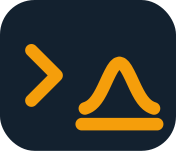
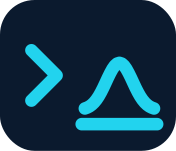
fix: restyle colours

Changed region(s): [[0.4261, 0.3709, 0.9375, 0.8742], [0.142, 0.2914, 0.3693, 0.7152]]

diff --git a/index.html b/index.html
@@ -5,27 +5,32 @@
 <meta name="viewport" content="width=device-width, initial-scale=1">
 <title>Gauss in the Shell</title>
 <meta name="description" content="Solution architecture, applied AI and digital compliance.">
-<meta name="theme-color" content="#13212F">
+<meta name="theme-color" content="#0B1A2E">
 <link rel="icon" href="favicon.svg" type="image/svg+xml">
 <link rel="icon" href="favicon-32.png" sizes="32x32" type="image/png">
 <style>
   @font-face { font-family: "Space Mono"; font-style: normal; font-weight: 400; font-display: swap; src: url("fonts/space-mono-latin-400-normal.woff2") format("woff2"); }
-  :root { --ink: #13212F; --amber: #F59E0B; --text: #E6EAEE; --muted: #AAB4BF; }
+  @font-face { font-family: "Space Grotesk"; font-style: normal; font-weight: 400; font-display: swap; src: url("fonts/space-grotesk-latin-400-normal.woff2") format("woff2"); }
+  @font-face { font-family: "Space Grotesk"; font-style: normal; font-weight: 600; font-display: swap; src: url("fonts/space-grotesk-latin-600-normal.woff2") format("woff2"); }
+  :root { --ink: #0B1A2E; --accent: #22D3EE; --text: #E6EDF5; --muted: #A3B3C6; }
   * { box-sizing: border-box; }
   body { margin: 0; min-height: 100vh; display: flex; flex-direction: column; background: var(--ink); color: var(--text); font-family: system-ui, -apple-system, "Segoe UI", Arial, sans-serif; }
   main { flex: 1; display: flex; flex-direction: column; justify-content: center; align-items: center; gap: 32px; padding: 48px 24px; text-align: center; }
-  img { width: min(440px, 88vw); height: auto; }
+  h1 { margin: 0; font-family: "Space Grotesk", system-ui, sans-serif; font-weight: 400; font-size: clamp(28px, 5vw, 46px); line-height: 1.2; letter-spacing: -0.01em; color: var(--text); text-wrap: balance; }
+  h1 strong { font-weight: 600; color: var(--accent); }
+  img { width: min(320px, 70vw); height: auto; }
   .tagline { margin: 0; font-family: "Space Mono", ui-monospace, Menlo, Consolas, monospace; font-size: 15px; color: var(--muted); }
-  .tagline::before { content: "> "; color: var(--amber); }
+  .tagline::before { content: "> "; color: var(--accent); }
   .contact { margin: 0; font-family: "Space Mono", ui-monospace, Menlo, Consolas, monospace; font-size: 15px; }
-  a { color: var(--amber); text-decoration: none; border-bottom: 1px solid rgba(245,158,11,.4); }
-  a:hover, a:focus-visible { border-bottom-color: var(--amber); }
+  a { color: var(--accent); text-decoration: none; border-bottom: 1px solid rgba(34,211,238,.4); }
+  a:hover, a:focus-visible { border-bottom-color: var(--accent); }
   footer { padding: 20px 24px; text-align: center; font-size: 12px; color: var(--muted); }
 </style>
 </head>
 <body>
   <main>
     <img src="gits-lockup-white.svg" alt="Gauss in the Shell">
+    <h1>Elevate your Digital Services,<br>Stand out of the <strong>norm</strong></h1>
     <p class="tagline">Solution&nbsp;architecture · Applied&nbsp;AI · Digital&nbsp;compliance</p>
     <p class="contact"><a href="mailto:jonathan@gaussit.be">jonathan@gaussit.be</a> · <a href="https://www.linkedin.com/in/jonathanbodart">LinkedIn</a></p>
   </main>
